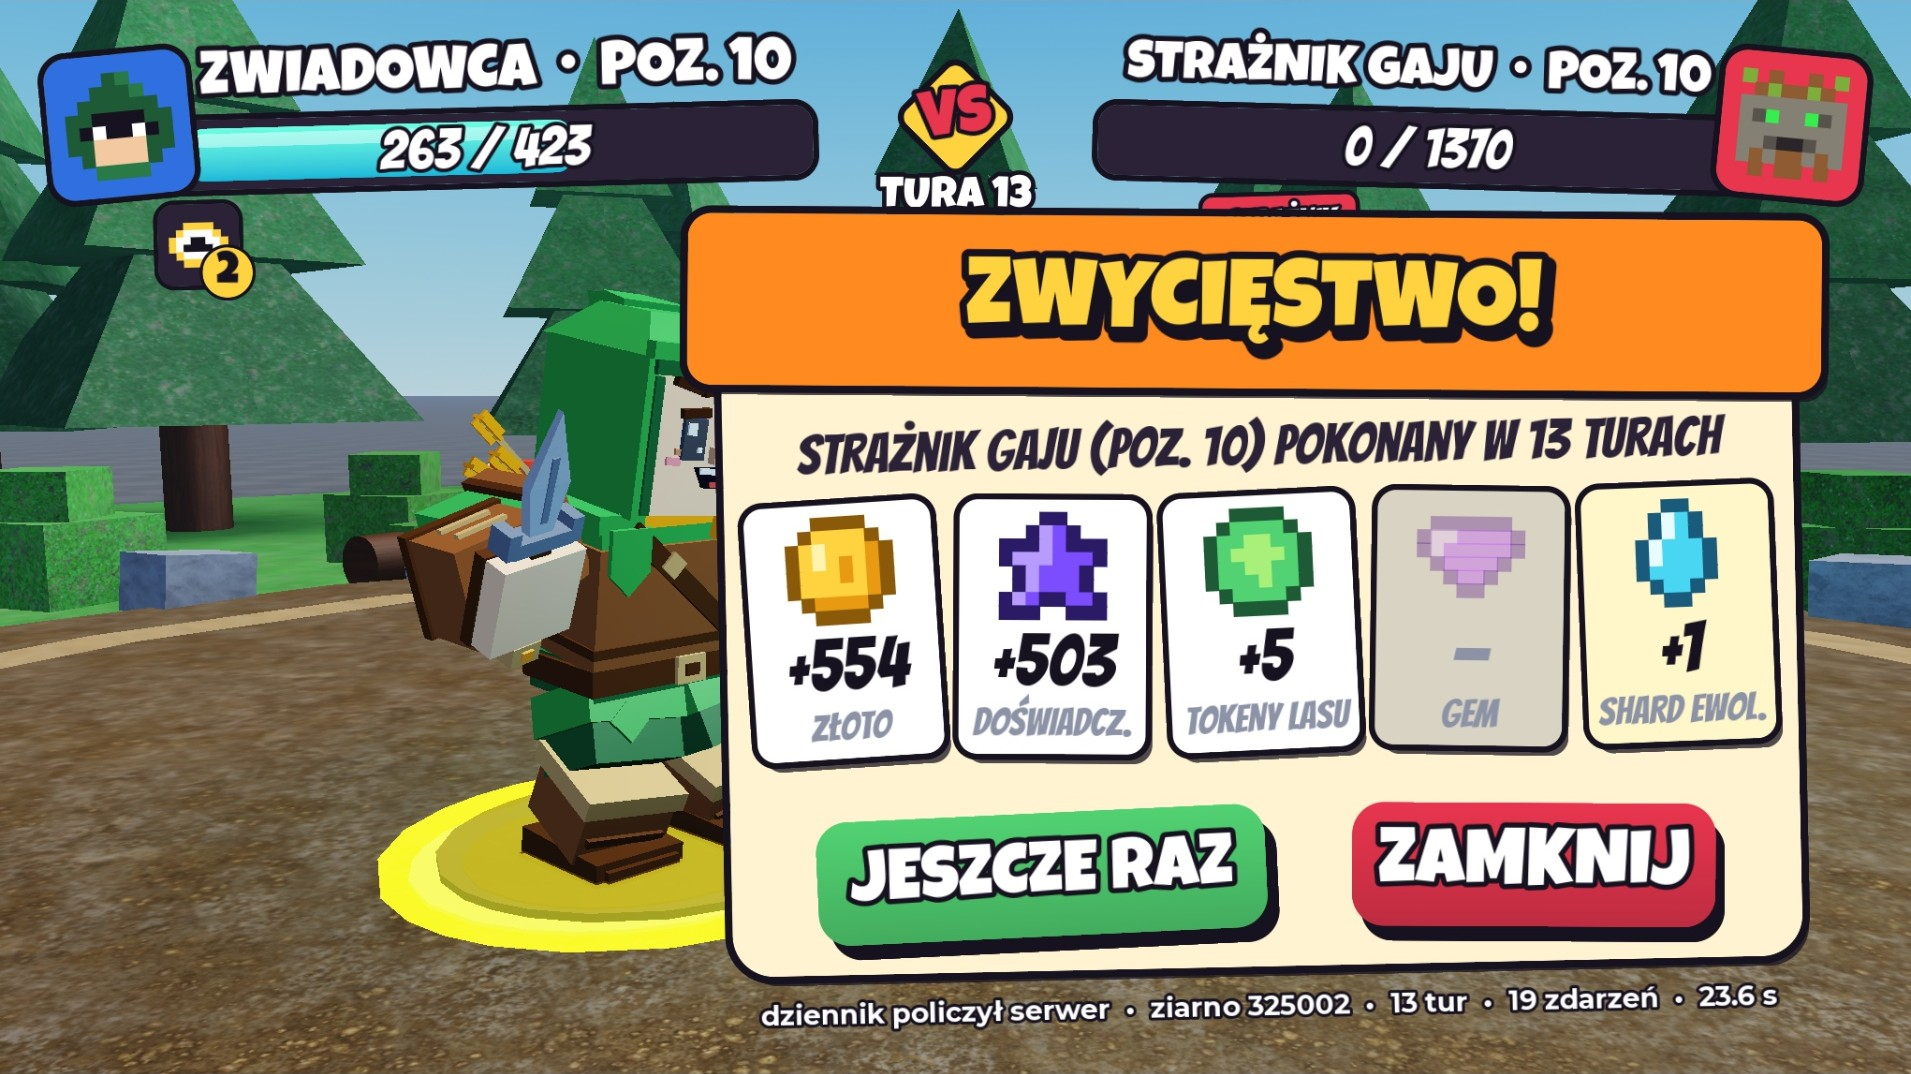
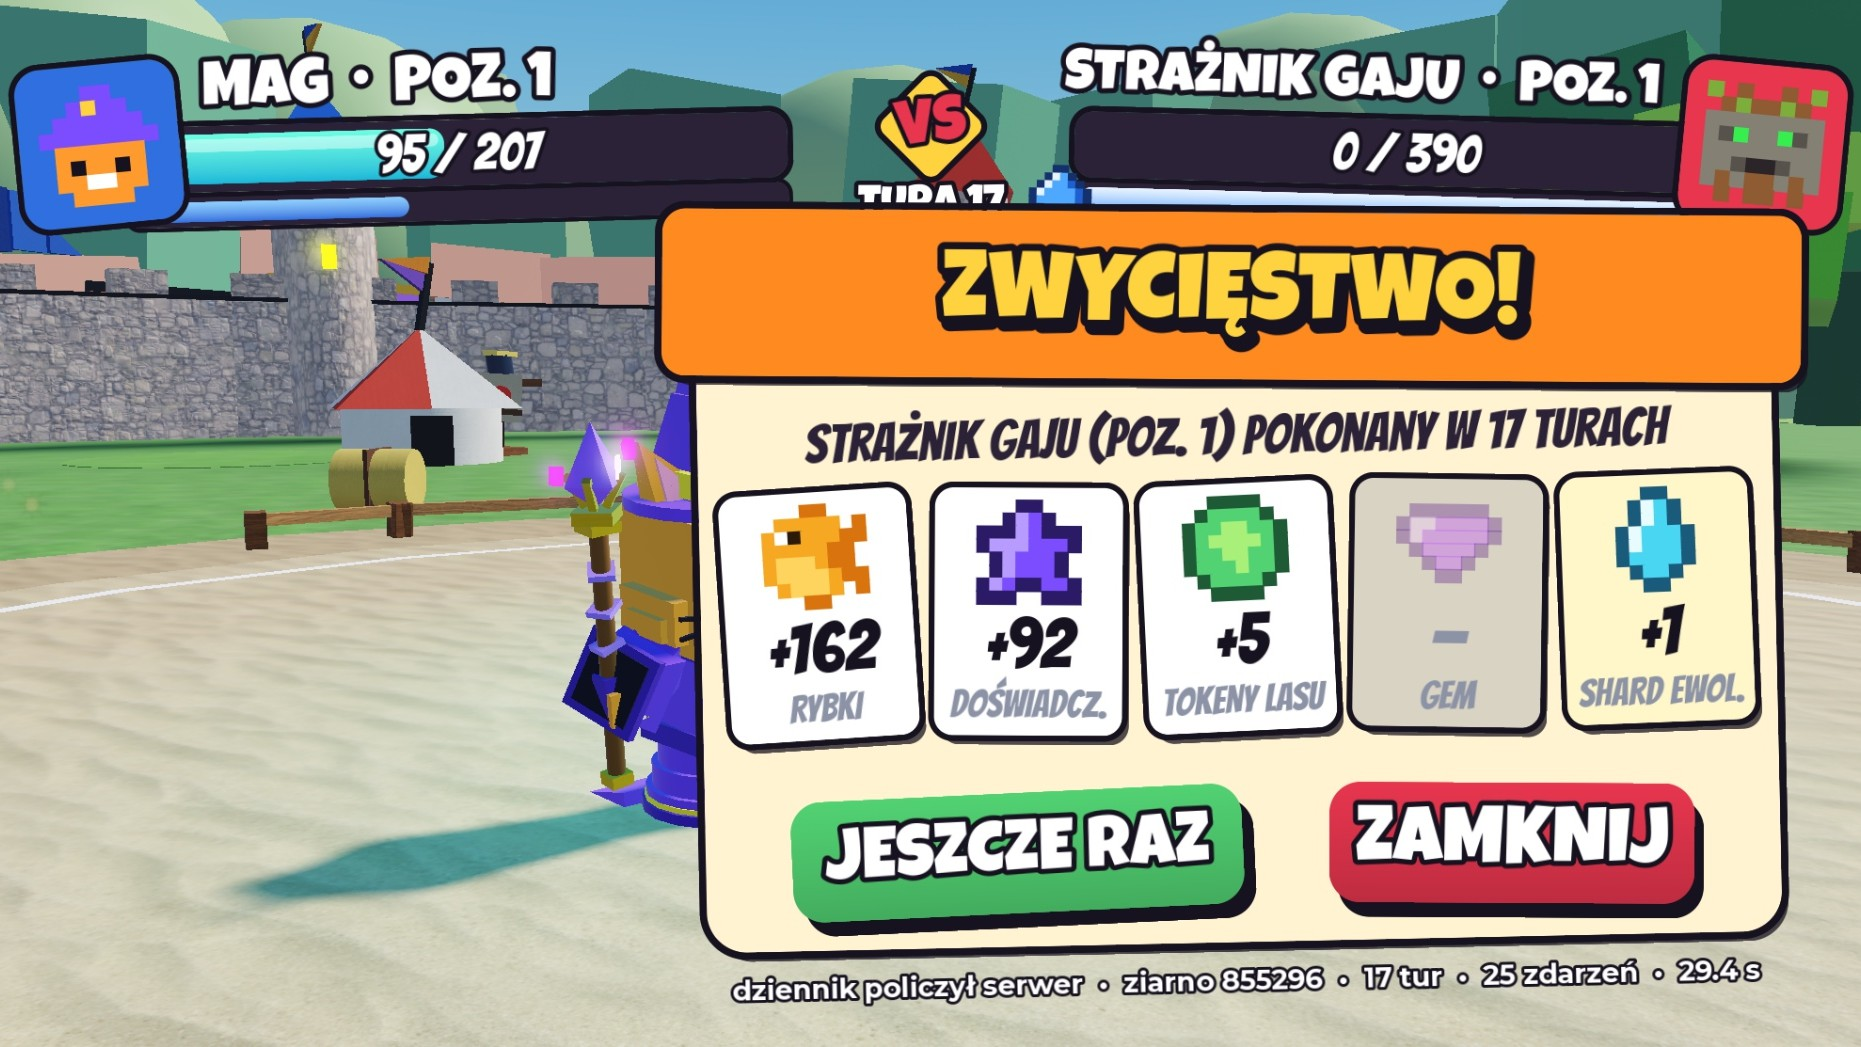
Karta wyniku walki: ikona rybki zamiast monety przy napisie „RYBKI” (D-146) — ikona 8×8 jak pozostałe ikony karty; wdrożone w Studio (TestWalki2); testy odtwarzacza 20 z 20, próba walki w Play 111 z 111; odświeżone zrzuty raportu walki; narzędzie zrzutów pomija kadr, którego nie da się ustawić (kadr

diff --git a/swiat/test_walki2/testy/zrzuty_raportu.py b/swiat/test_walki2/testy/zrzuty_raportu.py
@@ -110,17 +110,21 @@ def main():
                     time.sleep(2.2)
                 else:
                     if co == "krytyk":
-                        i = next(i for i, z in enumerate(d) if z["typ"] == "krytyk" and z["kto"] == "gracz")
+                        i = next((i for i, z in enumerate(d) if z["typ"] == "krytyk" and z["kto"] == "gracz"), None)
                         dt = 0.06
                     elif co == "kula_ognia":
-                        i = next(i for i, z in enumerate(d) if z["umiejetnosc"] == "kula_ognia" and z["typ"] == "umiejetnosc")
+                        i = next((i for i, z in enumerate(d) if z.get("umiejetnosc") == "kula_ognia" and z["typ"] == "umiejetnosc"), None)
                         dt = -0.12
                     elif co == "utrata":
-                        i = next(i for i, z in enumerate(d) if z["typ"] == "utrata_tury" and z["kto"] == "wrog")
+                        i = next((i for i, z in enumerate(d) if z["typ"] == "utrata_tury" and z["kto"] == "wrog"), None)
                         dt = None
                     else:
-                        i = next(i for i, z in enumerate(d) if z["typ"] == "efekt_nalozony" and z["efekt"] == "spowolnienie")
+                        i = next((i for i, z in enumerate(d) if z["typ"] == "efekt_nalozony" and z["efekt"] == "spowolnienie"), None)
                         dt = None
+                    if i is None:
+                        # silnik się zmienił i w dzienniku tego ziarna nie ma już takiej chwili: kadr zostaje stary
+                        log(nazwa, "POMINIĘTY — w dzienniku ziarna %d nie ma chwili „%s”" % (ziarno, co))
+                        continue
                     # napisy starzeją się w czasie rzeczywistym: najpierw do chwili tuż przed zdarzeniem, przerwa, aż
                     # stare napisy znikną, dopiero potem do kadru (inaczej na zrzucie piętrzą się napisy z kilku zdarzeń)
                     s.steruj('"przewinDo", %f' % max(0.0, d[i]["t"] - 0.05))

diff --git a/swiat/test_walki2/README.md b/swiat/test_walki2/README.md
@@ -568,7 +568,7 @@ w stronę kamery objazdu (od 17.11 obrót zaczyna się 0,45 s PRZED radością, 
 `OBROT_ZWYCIEZCY` w odtwarzaczu — więc przy cięciu do objazdu twarz jest już do kamery; wcześniej przez 0,1–0,3 s
 objazdu broń zasłaniała twarz; kąt twarzy ok. 35°; wcześniej, gdy leżący wymuszał duży kąt objazdu, wiwat było widać od
 tyłu, a panel wyniku stał na tle pleców) — objazd kamery, baner z krótką melodią, przy wygranej
-wysypany łup (monety, żetony lasu, Gem, kryształ Shardu) i panel wyniku: Rybki (napis „RYBKI” od 26.11.2026, D-146; ikona wciąż moneta), doświadczenie, tokeny krainy, Gem, Shard
+wysypany łup (monety, żetony lasu, Gem, kryształ Shardu) i panel wyniku: Rybki (napis „RYBKI” i ikona rybki od 26.11.2026, D-146; łup wysypywany na arenie to dalej monety), doświadczenie, tokeny krainy, Gem, Shard
 Ewolucji (zera wyszarzone), podtytuł z liczbą tur, stopka z ziarnem i czasem dziennika. Objazd nie wjeżdża w leżącego:
 kąt objazdu jest dobierany tak, żeby kamera była poza obwiednią leżącego (z zapasem), widok na zwycięzcę jej nie
 przecinał, a szczątki były od kamery co najmniej tak daleko jak zwycięzca (0,95) — stos głazów Strażnika nie wchodzi na
